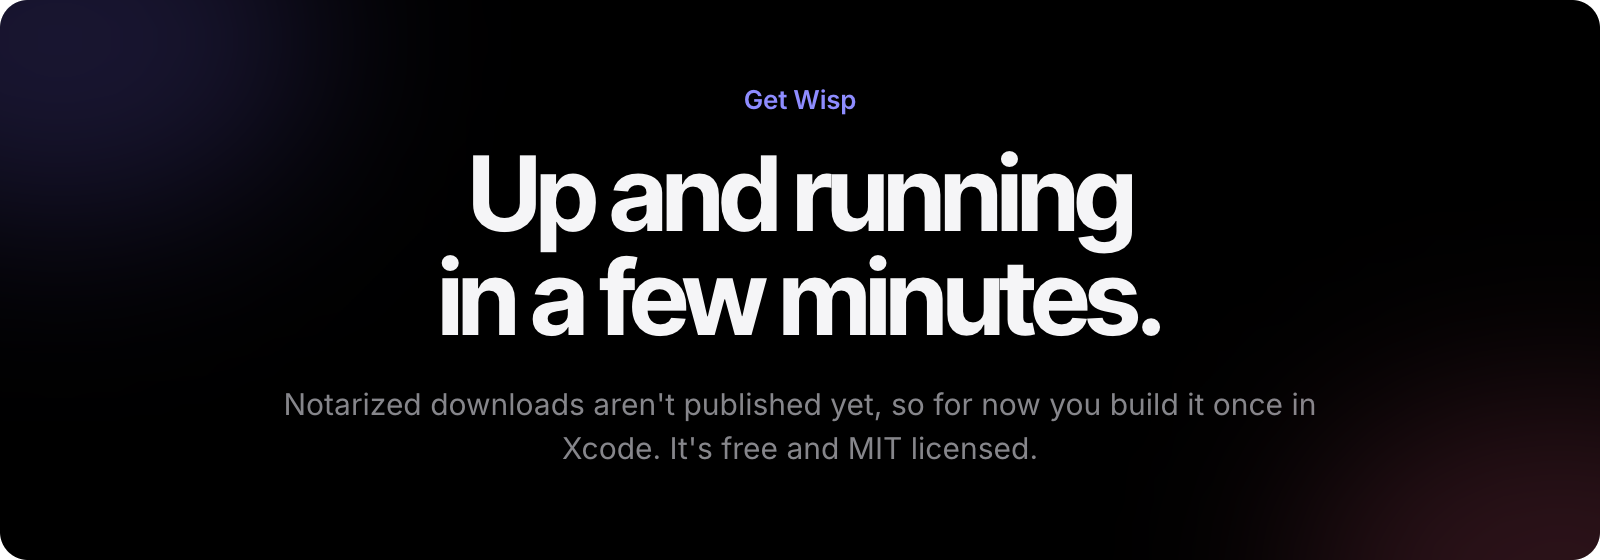
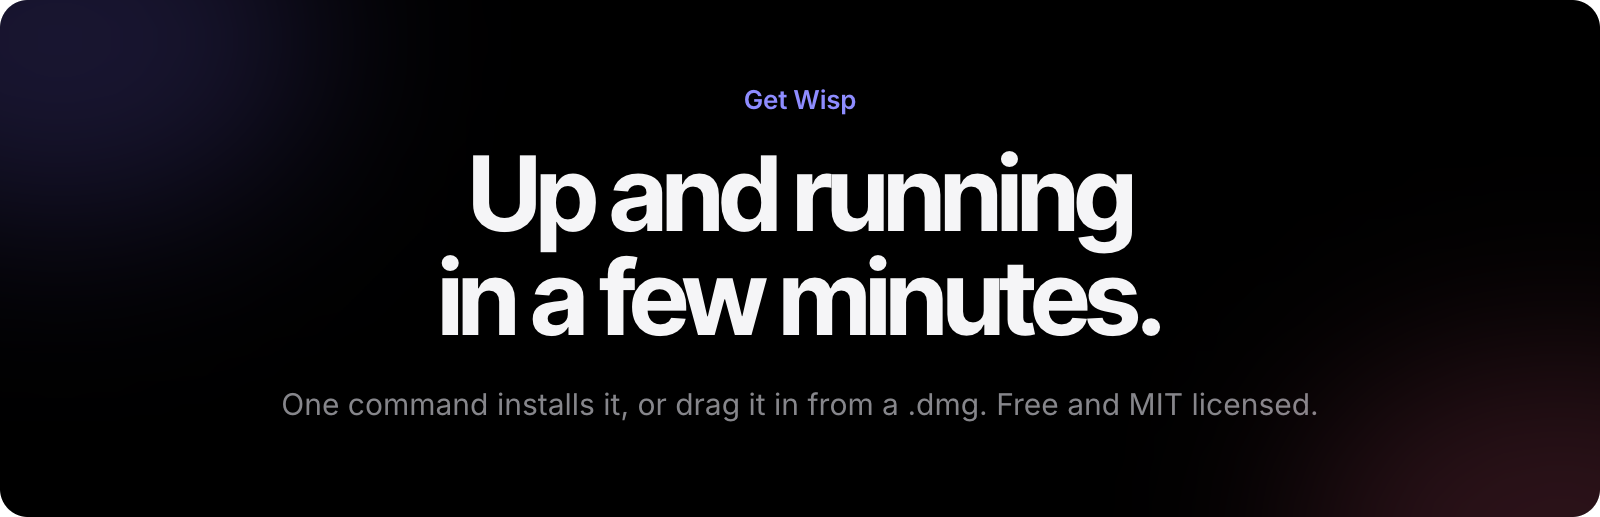
Show the install command and .dmg on the README and site (#69)

Changed region(s): [[0.25, 0.2785, 0.75, 0.6499], [0.1562, 0.7118, 0.8438, 0.8356], [0.4688, 0.1547, 0.5312, 0.2166]]

diff --git a/site/index.html b/site/index.html
@@ -344,29 +344,24 @@
     <div>
       <p class="eyebrow">Get Wisp</p>
       <h2>Up and running in a few minutes.</h2>
-      <p class="section-sub">Notarized downloads aren't published yet, so for now you build it once in Xcode. It's free and MIT licensed.</p>
+      <p class="section-sub">One command installs it, or drag it in from a .dmg. It's free and MIT licensed.</p>
       <ul class="reqs">
         <li>Apple-silicon Mac on macOS 26 or later</li>
-        <li>Xcode 26</li>
-        <li><a href="https://ollama.com/download">Ollama</a> for the default local model</li>
+        <li>No Apple ID or sudo needed</li>
+        <li>Offers to set up <a href="https://ollama.com/download">Ollama</a> for the default local model</li>
       </ul>
       <div class="cta-row">
-        <a class="btn btn-lg" href="https://github.com/anaylab/wisp">View on GitHub</a>
-        <a class="btn btn-quiet btn-lg" href="https://github.com/anaylab/wisp#readme">Read the docs</a>
+        <a class="btn btn-lg" href="https://github.com/anaylab/wisp/releases/latest/download/Wisp.dmg">Download .dmg</a>
+        <a class="btn btn-quiet btn-lg" href="https://github.com/anaylab/wisp">View on GitHub</a>
       </div>
     </div>
     <div class="code" role="group" aria-label="Install commands">
       <div class="code-bar"><span></span><span></span><span></span><button class="copy" id="copy" type="button">Copy</button></div>
-<pre id="code"><code><span class="c"># 1. a local model</span>
-ollama pull qwen2.5vl:3b
+<pre id="code"><code><span class="c"># paste in Terminal</span>
+curl -fsSL https://anaylab.github.io/wisp/install.sh | bash
 
-<span class="c"># 2. get Wisp</span>
-git clone https://github.com/anaylab/wisp.git
-cd wisp
-open leanring-buddy.xcodeproj
-
-<span class="c"># 3. pick the leanring-buddy scheme and press ⌘R,
-#    then hold ⌃⌥ and talk</span></code></pre>
+<span class="c"># then hold ⌃⌥ and talk.
+# Update later by running it again.</span></code></pre>
     </div>
   </div>
 </section>
@@ -381,9 +376,9 @@ open leanring-buddy.xcodeproj
     <details><summary>Is it really free?</summary><p>Yes. Wisp is open source under the MIT license, and the default setup costs nothing to run because the model, speech and voice are all on your Mac. If you choose a cloud model, you pay that provider with your own key or subscription.</p></details>
     <details><summary>What leaves my Mac?</summary><p>By default, nothing. Speech to text, voice, OCR and the local model all run on-device. The only network use by default is a one-time download of the speech models and optional weather and places lookups, which send a place name or query, never a screenshot. If you pick a cloud model, your transcript and screenshots go to that provider, and Wisp says so.</p></details>
     <details><summary>Can it do something I didn't want?</summary><p>Anything that sends, deletes, pays, posts, invites or runs a command shows a card first, even if you turned on auto-approve, and you can edit the wording before you allow it. Password and payment fields in the browser are refused outright. Scheduled automations only get tools that never prompt.</p></details>
-    <details><summary>Which Macs does it need?</summary><p>An Apple-silicon Mac on macOS 26 or later, since the notch uses Liquid Glass. 16 GB of memory is recommended for the local model. You need Xcode 26 to build it.</p></details>
+    <details><summary>Which Macs does it need?</summary><p>An Apple-silicon Mac on macOS 26 or later, since the notch uses Liquid Glass. 16 GB of memory is recommended for the local model.</p></details>
     <details><summary>Does it work in my apps?</summary><p>Pointing, walkthroughs and screen reading work anywhere: native apps through Accessibility and everything else through on-device OCR. Browser control works with Chrome and Safari.</p></details>
-    <details><summary>Why isn't there a download button?</summary><p>There is no notarized build published yet, and I'd rather say so than point you at something half-finished. Building it takes a few minutes in Xcode, and signed releases are on the way.</p></details>
+    <details><summary>Why isn't this notarized?</summary><p>Notarizing needs Apple's paid developer program. The install command downloads with curl, which macOS doesn't flag, and checks a checksum and signature first. The .dmg works too, after one right-click approval the first time. A notarized build may come later.</p></details>
   </div>
 </section>
 

diff --git a/scripts/readme-art/art.html b/scripts/readme-art/art.html
@@ -71,7 +71,7 @@
       "Each buddy owns one job, with its own chat, memory, model and tools. They run on a schedule, hand their results to each other, and only interrupt you when something needs your OK."),
     features: head("Everything it does", 'Not a chatbot in a window.<br><span class="grad">It finishes the job.</span>'),
     get: head("Get Wisp", 'Up and running<br>in a few minutes.',
-      "Notarized downloads aren't published yet, so for now you build it once in Xcode. It's free and MIT licensed."),
+      "One command installs it, or drag it in from a .dmg. Free and MIT licensed."),
     faq: head("Before you try it", 'Questions,<br>answered plainly.'),
     numbers: '<div class="card numbers">' + softOrbs +
       '<div class="stat"><b>34</b><span>things it does today</span></div>' +

diff --git a/README.md b/README.md
@@ -333,22 +333,30 @@ Images are never written to disk in conversation history. Weather and places car
 <p align="center">
   <picture>
     <source media="(prefers-color-scheme: dark)" srcset="docs/assets/readme/get-dark.png">
-    <img src="docs/assets/readme/get-light.png" alt="Get Wisp: up and running in a few minutes. Notarized downloads aren't published yet, so for now you build it once in Xcode. It's free and MIT licensed." width="100%">
+    <img src="docs/assets/readme/get-light.png" alt="Get Wisp: up and running in a few minutes. One command installs it, or drag it in from a .dmg. Free and MIT licensed." width="100%">
   </picture>
 </p>
 
-You need an Apple-silicon Mac on **macOS 26+**, **Xcode 26**, and [Ollama](https://ollama.com/download) for the default local model.
+You need an Apple-silicon Mac on **macOS 26+**. Paste this in Terminal:
 
 ```bash
-# 1. a local model
-ollama pull qwen2.5vl:3b
+curl -fsSL https://anaylab.github.io/wisp/install.sh | bash
+```
 
-# 2. get Wisp
+It checks the download's checksum and signature, puts Wisp in Applications, and offers to set up [Ollama](https://ollama.com/download) and the default local model. Run it again to update. [Read the script first](site/install.sh) if you like; it never uses sudo.
+
+Prefer dragging? Download [Wisp.dmg](https://github.com/anaylab/wisp/releases/latest/download/Wisp.dmg) and drag Wisp to Applications. It isn't notarized yet, so macOS asks for one approval the first time: right-click Wisp, choose Open. More in [docs/terminal-install.md](docs/terminal-install.md).
+
+<details><summary>Build it yourself in Xcode (needs Xcode 26)</summary>
+
+```bash
+ollama pull qwen2.5vl:3b
 git clone https://github.com/anaylab/wisp.git && cd wisp
 open leanring-buddy.xcodeproj
-
-# 3. pick the leanring-buddy scheme and press ⌘R, then hold ⌃⌥ and talk
+# pick the leanring-buddy scheme and press ⌘R
 ```
+
+</details>
 
 Wisp appears in the menu bar (there is no Dock icon) and opens on **Today** with a checklist of the permissions it needs. Grant them, hold <kbd>Control</kbd> + <kbd>Option</kbd>, and talk. The first launch downloads the on-device speech models once; until they are ready, Apple's built-in engines stand in.
 
@@ -394,7 +402,7 @@ Anything that sends, deletes, pays, posts, invites or runs a command shows a car
 </details>
 <details><summary><b>Which Macs does it need?</b></summary>
 
-An Apple-silicon Mac on macOS 26 or later, since the notch uses Liquid Glass. 16 GB of memory is recommended for the local model. You need Xcode 26 to build it.
+An Apple-silicon Mac on macOS 26 or later, since the notch uses Liquid Glass. 16 GB of memory is recommended for the local model.
 
 </details>
 <details><summary><b>Does it work in my apps?</b></summary>
@@ -402,9 +410,9 @@ An Apple-silicon Mac on macOS 26 or later, since the notch uses Liquid Glass. 16
 Pointing, walkthroughs and screen reading work anywhere: native apps through Accessibility and everything else through on-device OCR. Browser control works with Chrome and Safari.
 
 </details>
-<details><summary><b>Why isn't there a download button?</b></summary>
+<details><summary><b>Why isn't this notarized?</b></summary>
 
-There is no notarized build published yet, and I'd rather say so than point you at something half-finished. Building it takes a few minutes in Xcode, and signed releases are on the way.
+Notarizing needs Apple's paid developer program, and I'd rather ship now and say so. The install command downloads with curl, which macOS doesn't flag, and checks a checksum and signature first. The .dmg works too after one right-click approval. A notarized build may come later.
 
 </details>
 
